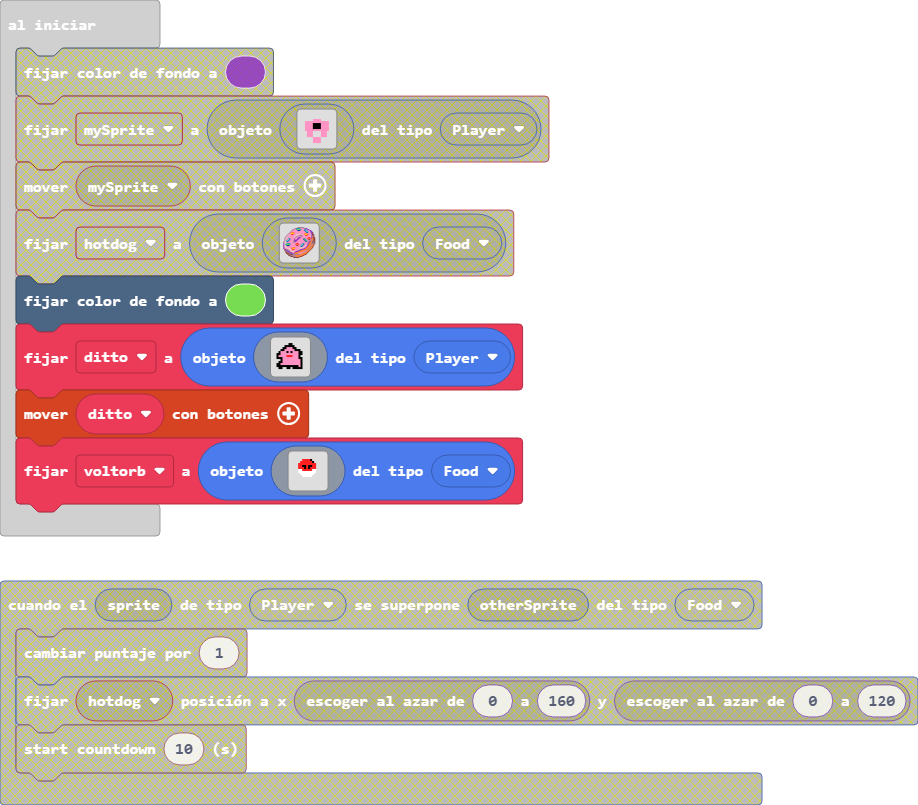
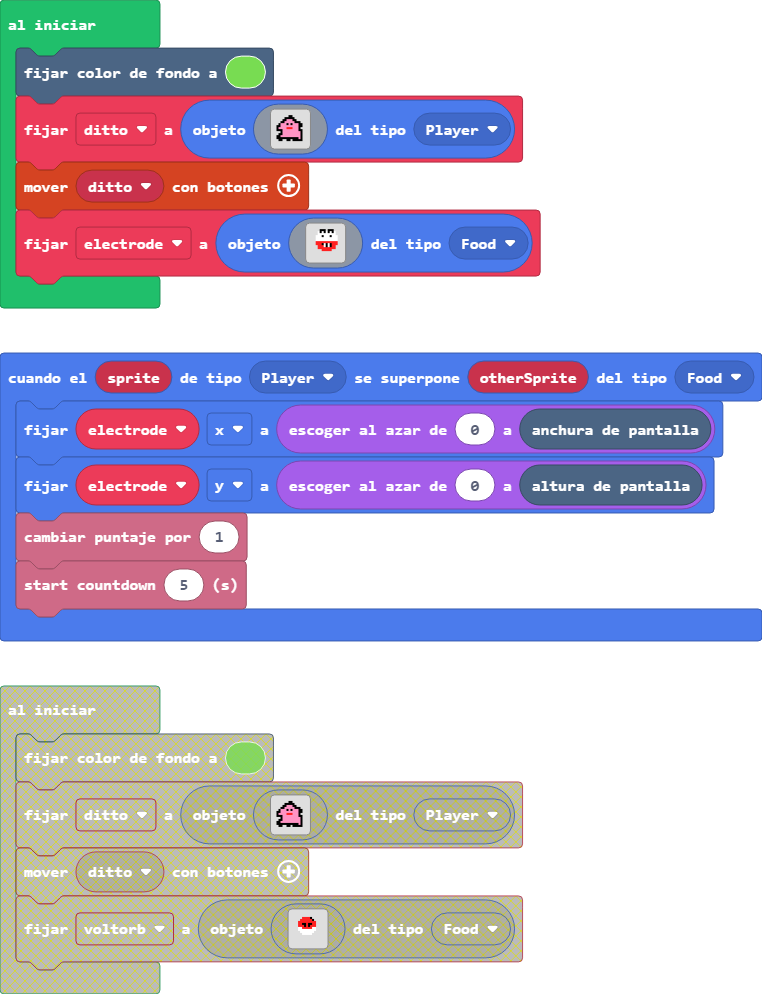
Avanzando en el juego

diff --git a/main.ts b/main.ts
@@ -1,3 +1,10 @@
+sprites.onOverlap(SpriteKind.Player, SpriteKind.Food, function (sprite, otherSprite) {
+    electrode.x = randint(0, scene.screenWidth())
+    electrode.y = randint(0, scene.screenHeight())
+    info.changeScoreBy(1)
+    info.startCountdown(5)
+})
+let electrode: Sprite = null
 scene.setBackgroundColor(7)
 let ditto = sprites.create(img`
     . . . . . . . . . . . . . . . . 
@@ -18,19 +25,19 @@ let ditto = sprites.create(img`
     . . . . . . . . . . . . . . . . 
     `, SpriteKind.Player)
 controller.moveSprite(ditto)
-let voltorb = sprites.create(img`
+electrode = sprites.create(img`
     . . . . . . . . . . . . . . . . 
-    . . . . . . . . . . . . . . . . 
-    . . . . . 2 2 2 2 f . . . . . . 
-    . . . . 2 2 2 2 2 2 f . . . . . 
-    . . . 2 2 2 2 2 2 2 2 2 . . . . 
-    . . . 2 2 f f 2 f f 2 2 . . . . 
-    . . . 2 2 2 f 2 f 2 2 2 . . . . 
-    . . . 1 1 2 2 2 2 2 1 1 . . . . 
-    . . . 1 1 1 1 1 1 1 1 1 . . . . 
-    . . . . 1 1 1 1 1 1 1 . . . . . 
-    . . . . . 1 1 1 1 1 . . . . . . 
-    . . . . . . . . . . . . . . . . 
+    . . . . . f f f . f f f . . . . 
+    . . . . 1 f 1 f 1 f 1 f 1 . . . 
+    . . . . 1 1 1 1 1 1 1 1 1 . . . 
+    . . . 1 1 1 f 1 1 1 f 1 1 1 . . 
+    . . . 1 1 1 1 1 1 1 1 1 1 1 . . 
+    . . . 1 1 1 1 1 1 1 1 1 1 1 . . 
+    . . . 2 2 2 2 2 2 2 2 2 2 2 . . 
+    . . . 2 2 2 f 1 f 1 f 2 2 2 . . 
+    . . . . 2 2 2 1 f 1 f 2 2 . . . 
+    . . . . 2 2 2 2 2 2 2 2 2 . . . 
+    . . . . . . 2 2 2 2 2 . . . . . 
     . . . . . . . . . . . . . . . . 
     . . . . . . . . . . . . . . . . 
     . . . . . . . . . . . . . . . . 

diff --git a/main.py b/main.py
@@ -1,3 +1,11 @@
+def on_on_overlap(sprite, otherSprite):
+    electrode.x = randint(0, scene.screen_width())
+    electrode.y = randint(0, scene.screen_height())
+    info.change_score_by(1)
+    info.start_countdown(5)
+sprites.on_overlap(SpriteKind.player, SpriteKind.food, on_on_overlap)
+
+electrode: Sprite = None
 scene.set_background_color(7)
 ditto = sprites.create(img("""
         . . . . . . . . . . . . . . . . 
@@ -19,19 +27,19 @@ ditto = sprites.create(img("""
     """),
     SpriteKind.player)
 controller.move_sprite(ditto)
-voltorb = sprites.create(img("""
+electrode = sprites.create(img("""
         . . . . . . . . . . . . . . . . 
-            . . . . . . . . . . . . . . . . 
-            . . . . . 2 2 2 2 f . . . . . . 
-            . . . . 2 2 2 2 2 2 f . . . . . 
-            . . . 2 2 2 2 2 2 2 2 2 . . . . 
-            . . . 2 2 f f 2 f f 2 2 . . . . 
-            . . . 2 2 2 f 2 f 2 2 2 . . . . 
-            . . . 1 1 2 2 2 2 2 1 1 . . . . 
-            . . . 1 1 1 1 1 1 1 1 1 . . . . 
-            . . . . 1 1 1 1 1 1 1 . . . . . 
-            . . . . . 1 1 1 1 1 . . . . . . 
-            . . . . . . . . . . . . . . . . 
+            . . . . . f f f . f f f . . . . 
+            . . . . 1 f 1 f 1 f 1 f 1 . . . 
+            . . . . 1 1 1 1 1 1 1 1 1 . . . 
+            . . . 1 1 1 f 1 1 1 f 1 1 1 . . 
+            . . . 1 1 1 1 1 1 1 1 1 1 1 . . 
+            . . . 1 1 1 1 1 1 1 1 1 1 1 . . 
+            . . . 2 2 2 2 2 2 2 2 2 2 2 . . 
+            . . . 2 2 2 f 1 f 1 f 2 2 2 . . 
+            . . . . 2 2 2 1 f 1 f 2 2 . . . 
+            . . . . 2 2 2 2 2 2 2 2 2 . . . 
+            . . . . . . 2 2 2 2 2 . . . . . 
             . . . . . . . . . . . . . . . . 
             . . . . . . . . . . . . . . . . 
             . . . . . . . . . . . . . . . . 
